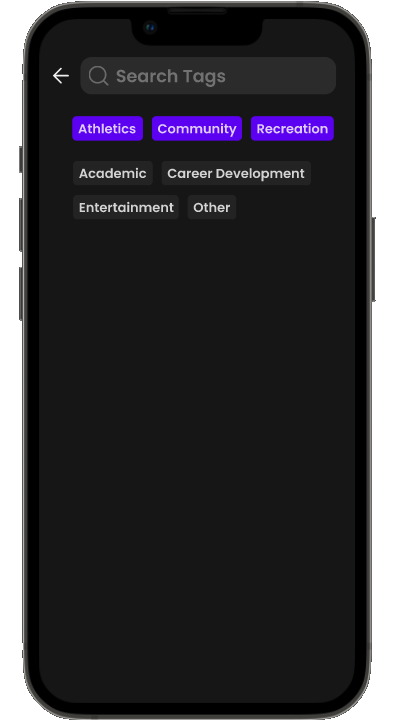
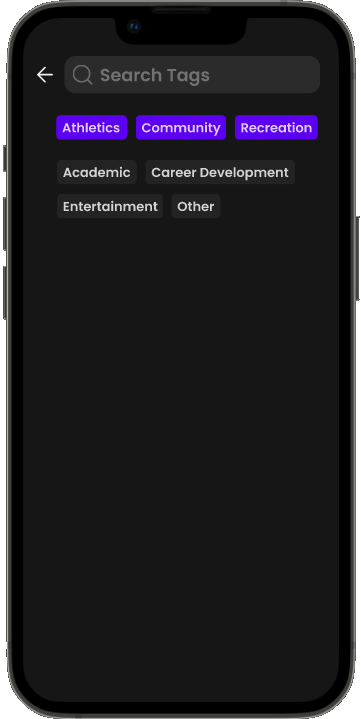
Updated images

diff --git a/src/components/demo/Demo.css b/src/components/demo/Demo.css
@@ -50,7 +50,7 @@ body {
     
   }
   .demo-left img {
-    width: 95%;
+    width: 100%;
   }
    
   .demo-right {
@@ -59,7 +59,7 @@ body {
     
   }
   .demo-right img {
-    width: 95%;
+    width: 100%;
   }
 
    
@@ -69,7 +69,11 @@ body {
     
   }
   .demo-middle img {
-    width: 95%;
+    width: 100%;
+  }
+
+  .images {
+    height: 800px;
   }
   
   @media screen and (max-width: 600px) {

diff --git a/src/components/demo/Demo.js b/src/components/demo/Demo.js
@@ -33,7 +33,7 @@ const Demo = () => {
             </div>
             <div className="demo-right" data-aos="fade-left">
                 <h1>Tag filtering</h1>
-                <img src={selectTags} alt="phone" />
+                <img src={selectTags} alt="selectTags" />
                 <h2>Customize your home page by inputting what events YOU want to see.</h2>
             </div>
           </div>
